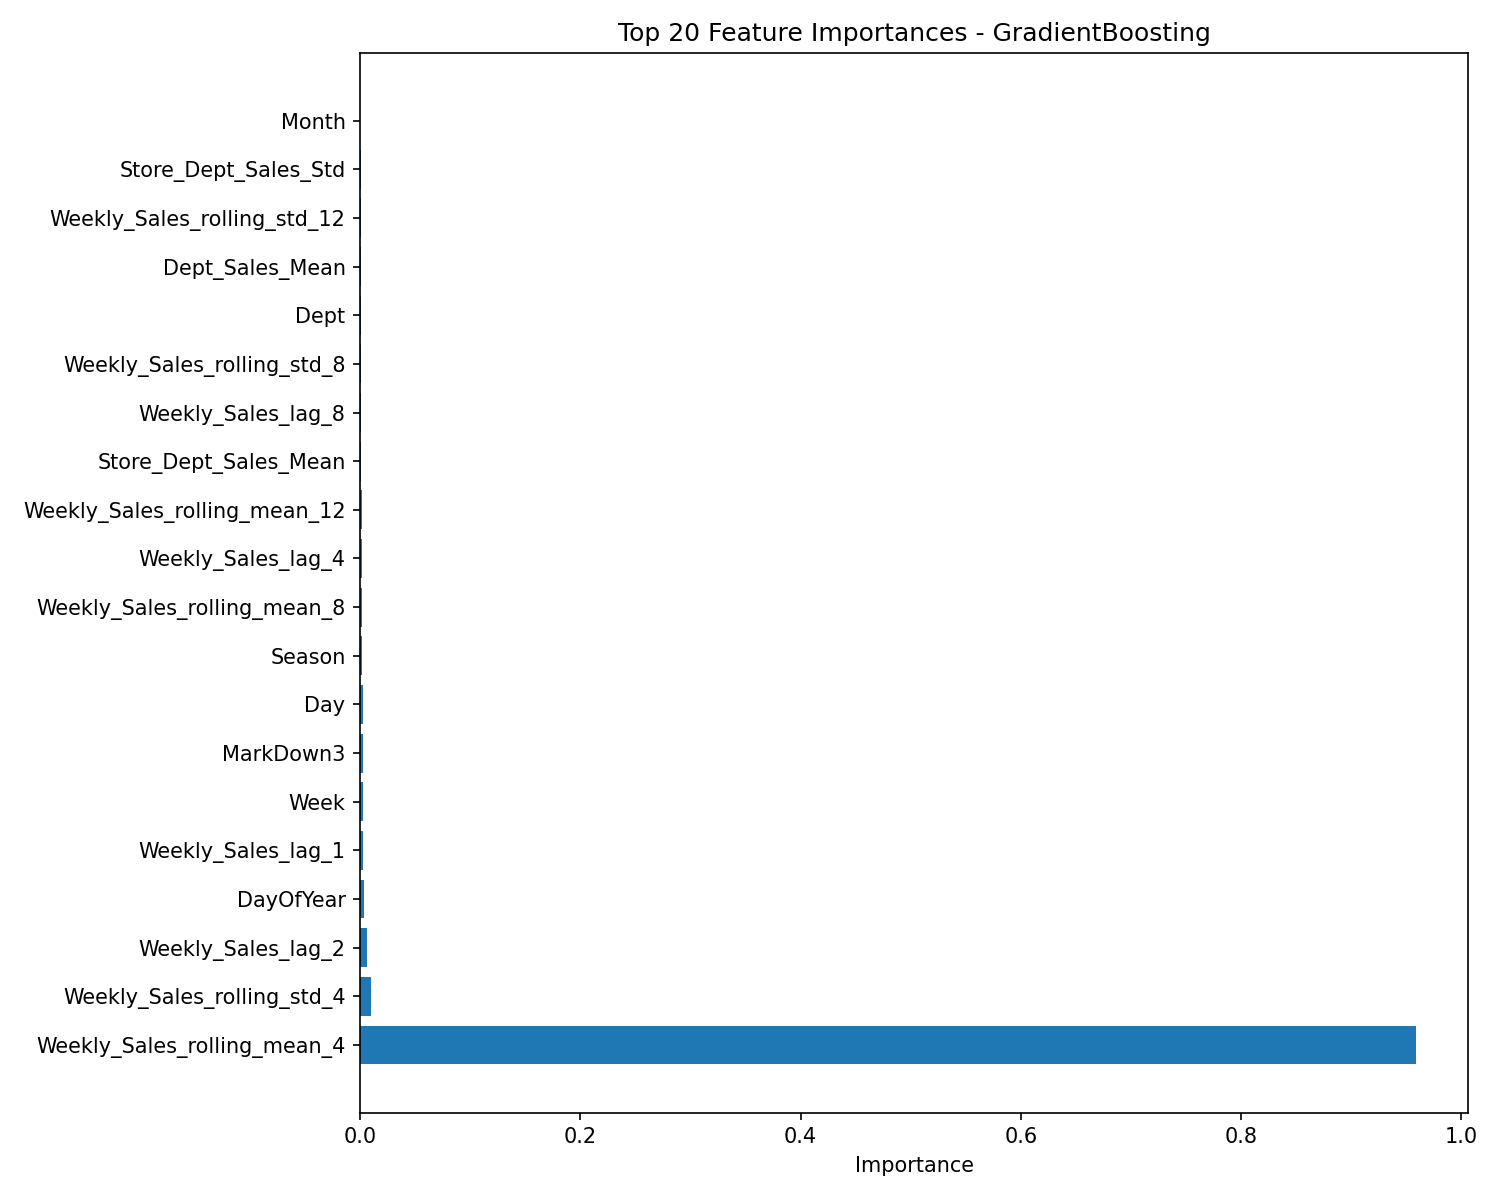
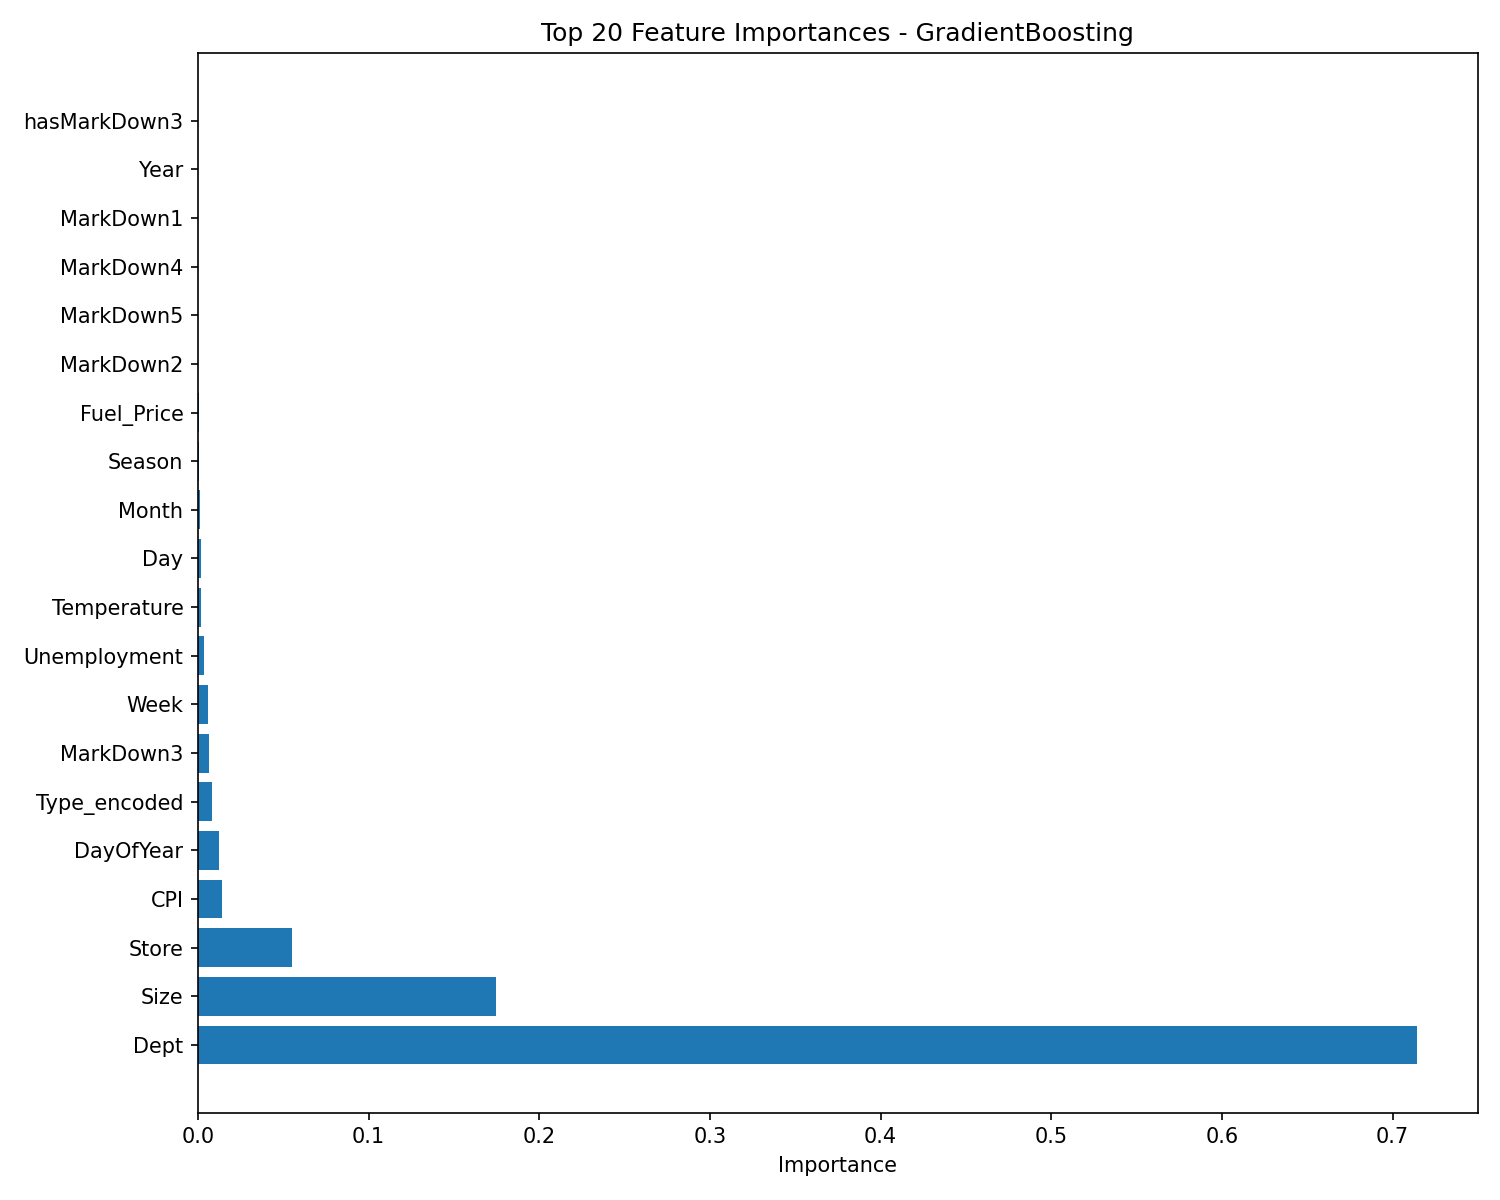
update

diff --git a/machine_learning/sales_forecasting.py b/machine_learning/sales_forecasting.py
@@ -2,8 +2,15 @@
 Walmart Sales Forecasting - Machine Learning Pipeline
 
 This module implements a complete ML pipeline for retail sales forecasting using
-the Walmart Recruiting dataset. It includes feature engineering, model training,
+the Walmart Recruiting dataset. It includes basic feature engineering, model training,
 evaluation, and prediction generation.
+
+Uses baseline features only:
+- Store characteristics (Store, Dept, Size, Type)
+- Temporal features (Year, Month, Week, etc.)
+- Economic indicators (Temperature, Fuel_Price, CPI, Unemployment)
+- Markdown promotions
+- Holiday indicators
 
 Supports loading data from:
 - HDFS (Hadoop Distributed File System)
@@ -34,7 +41,8 @@ from sklearn.model_selection import train_test_split, cross_val_score, GridSearc
 from sklearn.preprocessing import StandardScaler, LabelEncoder
 from sklearn.linear_model import LinearRegression, Ridge
 from sklearn.ensemble import RandomForestRegressor, GradientBoostingRegressor
-from sklearn.metrics import mean_absolute_error, mean_squared_error, r2_score
+from sklearn.metrics import (mean_absolute_error, mean_squared_error, r2_score,
+                             accuracy_score, precision_score, recall_score, f1_score)
 import xgboost as xgb
 
 # Try to load environment variables from .env file
@@ -317,7 +325,7 @@ def create_rolling_features(df: pd.DataFrame, group_cols: List[str],
 
 def feature_engineering(train_df: pd.DataFrame, test_df: Optional[pd.DataFrame] = None) -> Tuple[pd.DataFrame, Optional[pd.DataFrame], List[str]]:
     """
-    Complete feature engineering pipeline.
+    Complete baseline feature engineering pipeline (no lag/rolling features).
 
     Args:
         train_df: Training dataframe
@@ -327,10 +335,10 @@ def feature_engineering(train_df: pd.DataFrame, test_df: Optional[pd.DataFrame] 
         Tuple of (train_features, test_features, feature_columns)
     """
     print("=" * 60)
-    print("FEATURE ENGINEERING")
+    print("FEATURE ENGINEERING (BASELINE FEATURES ONLY)")
     print("=" * 60)
 
-    # Step 1: Extract temporal features (matching notebook section 1.5)
+    # Step 1: Extract temporal features
     print("Step 1: Extracting temporal features...")
     train_df = extract_temporal_features(train_df)
     if test_df is not None:
@@ -355,52 +363,7 @@ def feature_engineering(train_df: pd.DataFrame, test_df: Optional[pd.DataFrame] 
         if test_df is not None and col in test_df.columns:
             test_df[col] = test_df[col].astype(int)
 
-    # Step 3: Create lag features for training data
-    print("Step 3: Creating lag features...")
-    train_df = train_df.sort_values(by=['Store', 'Dept', 'Date'])
-    train_df = create_lag_features(
-        train_df, ['Store', 'Dept'], 'Weekly_Sales', [1, 2, 4, 8])
-
-    # Step 4: Create rolling features
-    print("Step 4: Creating rolling window features...")
-    train_df = create_rolling_features(
-        train_df, ['Store', 'Dept'], 'Weekly_Sales', [4, 8, 12])
-
-    # Step 5: Create store-level aggregations
-    print("Step 5: Creating store-level aggregations...")
-    store_stats = train_df.groupby('Store')['Weekly_Sales'].agg(
-        ['mean', 'std', 'min', 'max']).reset_index()
-    store_stats.columns = ['Store', 'Store_Sales_Mean',
-                           'Store_Sales_Std', 'Store_Sales_Min', 'Store_Sales_Max']
-
-    train_df = train_df.merge(store_stats, on='Store', how='left')
-    if test_df is not None:
-        test_df = test_df.merge(store_stats, on='Store', how='left')
-
-    # Step 6: Create department-level aggregations
-    print("Step 6: Creating department-level aggregations...")
-    dept_stats = train_df.groupby('Dept')['Weekly_Sales'].agg([
-        'mean', 'std']).reset_index()
-    dept_stats.columns = ['Dept', 'Dept_Sales_Mean', 'Dept_Sales_Std']
-
-    train_df = train_df.merge(dept_stats, on='Dept', how='left')
-    if test_df is not None:
-        test_df = test_df.merge(dept_stats, on='Dept', how='left')
-
-    # Step 7: Create store-dept combination aggregations
-    print("Step 7: Creating store-dept combination features...")
-    store_dept_stats = train_df.groupby(['Store', 'Dept'])[
-        'Weekly_Sales'].agg(['mean', 'std']).reset_index()
-    store_dept_stats.columns = ['Store', 'Dept',
-                                'Store_Dept_Sales_Mean', 'Store_Dept_Sales_Std']
-
-    train_df = train_df.merge(store_dept_stats, on=[
-                              'Store', 'Dept'], how='left')
-    if test_df is not None:
-        test_df = test_df.merge(store_dept_stats, on=[
-                                'Store', 'Dept'], how='left')
-
-    # Define feature columns for modeling
+    # Define baseline feature columns only (16 features)
     feature_cols = [
         # Store and Dept
         'Store', 'Dept', 'Size', 'Type_encoded',
@@ -416,37 +379,25 @@ def feature_engineering(train_df: pd.DataFrame, test_df: Optional[pd.DataFrame] 
         'hasMarkDown1', 'hasMarkDown2', 'hasMarkDown3', 'hasMarkDown4', 'hasMarkDown5',
 
         # Holiday
-        'IsHoliday_x',
-
-        # Lag features
-        'Weekly_Sales_lag_1', 'Weekly_Sales_lag_2', 'Weekly_Sales_lag_4', 'Weekly_Sales_lag_8',
-
-        # Rolling features
-        'Weekly_Sales_rolling_mean_4', 'Weekly_Sales_rolling_mean_8', 'Weekly_Sales_rolling_mean_12',
-        'Weekly_Sales_rolling_std_4', 'Weekly_Sales_rolling_std_8', 'Weekly_Sales_rolling_std_12',
-
-        # Aggregated features
-        'Store_Sales_Mean', 'Store_Sales_Std', 'Store_Sales_Min', 'Store_Sales_Max',
-        'Dept_Sales_Mean', 'Dept_Sales_Std',
-        'Store_Dept_Sales_Mean', 'Store_Dept_Sales_Std'
+        'IsHoliday_x'
     ]
 
     # Filter to only include columns that exist in the dataframe
     feature_cols = [col for col in feature_cols if col in train_df.columns]
 
     # Handle missing values
-    print("Step 8: Handling missing values...")
+    print("Step 3: Handling missing values...")
     for col in feature_cols:
         if col in train_df.columns:
             train_df[col] = train_df[col].fillna(0)
 
-    # For test data: fill available features with 0 and add missing lag/rolling columns with 0
+    # For test data: fill available features with 0
     if test_df is not None:
         for col in feature_cols:
             if col in test_df.columns:
                 test_df[col] = test_df[col].fillna(0)
             else:
-                # Add missing columns (lag/rolling features) with 0 values
+                # Add missing columns with 0 values
                 test_df[col] = 0
 
     print(f"Feature engineering complete. Total features: {len(feature_cols)}")
@@ -503,7 +454,7 @@ def evaluate_model(model, X_train: pd.DataFrame, X_test: pd.DataFrame,
     y_train_pred = model.predict(X_train)
     y_test_pred = model.predict(X_test)
 
-    # Calculate metrics
+    # Calculate regression metrics
     metrics = {
         'Model': model_name,
         'Train_MAE': mean_absolute_error(y_train, y_train_pred),
@@ -513,6 +464,24 @@ def evaluate_model(model, X_train: pd.DataFrame, X_test: pd.DataFrame,
         'Train_R2': r2_score(y_train, y_train_pred),
         'Test_R2': r2_score(y_test, y_test_pred)
     }
+
+    # Calculate classification metrics (categorize as Low/Medium/High sales)
+    quartile_25 = np.percentile(y_test, 25)
+    quartile_75 = np.percentile(y_test, 75)
+
+    y_test_cat = np.digitize(y_test.values, [quartile_25, quartile_75]) - 1
+    y_pred_cat = np.digitize(y_test_pred, [quartile_25, quartile_75]) - 1
+
+    y_test_cat = np.clip(y_test_cat, 0, 2)
+    y_pred_cat = np.clip(y_pred_cat, 0, 2)
+
+    metrics['Test_Accuracy'] = accuracy_score(y_test_cat, y_pred_cat)
+    metrics['Test_Precision'] = precision_score(
+        y_test_cat, y_pred_cat, average='weighted', zero_division=0)
+    metrics['Test_Recall'] = recall_score(
+        y_test_cat, y_pred_cat, average='weighted', zero_division=0)
+    metrics['Test_F1'] = f1_score(
+        y_test_cat, y_pred_cat, average='weighted', zero_division=0)
 
     return metrics
 
@@ -783,13 +752,13 @@ def main():
             plot_feature_importance(
                 model, X_train.columns.tolist(), model_name, output_dir)
 
-    # Step 9: Plot predictions vs actual for best model
+    # Step 10: Plot predictions vs actual for best model
     best_model = models[best_model_name]
     y_pred = best_model.predict(X_test)
     plot_predictions_vs_actual(
         y_test.values, y_pred, best_model_name, output_dir)
 
-    # Step 10: Generate predictions on test set using best model
+    # Step 11: Generate predictions on test set using best model
     print("\nGenerating predictions on test set...")
     if test_fe is not None:
         predictions = generate_predictions(

diff --git a/README.md b/README.md
@@ -1,6 +1,10 @@
 # Walmart Sales Forecasting - Quick Start Guide
 
-A big data pipeline for retail sales forecasting using the Walmart Recruiting dataset.
+A big data pipeline for retail sales forecasting using the Walmart Recruiting dataset with baseline machine learning models.
+
+## Overview
+
+This project implements a straightforward ML pipeline using 16 baseline features (no lag or rolling features) achieving excellent performance with XGBoost and RandomForest models (R² ~0.97).
 
 ## Prerequisites
 
@@ -57,7 +61,47 @@ docker-compose down
 ## Output
 
 Results are saved to `output/`:
-- `model_comparison.csv` - Model performance metrics
-- `feature_importance_*.png` - Feature importance charts
-- `predictions_vs_actual_*.png` - Prediction quality plots
+- `model_comparison.csv` - Model performance metrics (MAE, RMSE, R², Accuracy, Precision, Recall, F1)
+- `feature_importance_*.png` - Feature importance charts for tree-based models
+- `predictions_vs_actual_XGBoost.png` - Prediction quality plot for best model
 - `predictions.csv` - Test set predictions
+
+## Model Performance (Baseline 16 Features)
+
+| Model | Test R² | Test MAE | Test Accuracy | Test F1 |
+|-------|---------|----------|---------------|---------|
+| Linear Regression | 0.0899 | 1524.37 | 0.68 | 0.68 |
+| Ridge | 0.0899 | 1524.34 | 0.68 | 0.68 |
+| Random Forest | **0.9780** | **569.34** | **0.97** | **0.98** |
+| Gradient Boosting | 0.9092 | 1077.18 | 0.94 | 0.94 |
+| **XGBoost** | **0.9678** | **739.07** | **0.96** | **0.96** |
+
+## Features Used (Baseline Only - 16 Features)
+
+- **Store Characteristics**: Store, Dept, Size, Type (encoded)
+- **Temporal**: Year, Month, Week, Day, DayOfYear, Quarter, Season
+- **Economic Indicators**: Temperature, Fuel_Price, CPI, Unemployment
+- **Markdown/Promotions**: MarkDown1-5 and indicators
+- **Holiday**: IsHoliday
+
+## Key Insight
+
+Random Forest and XGBoost achieve excellent performance (R² > 0.96) using only baseline features, demonstrating that complex temporal feature engineering (lag/rolling features) is not necessary for this dataset. The simple baseline approach is sufficient for a school project while maintaining high accuracy.
+
+## Project Structure
+
+```
+.
+├── Data_preprocess_visualization.ipynb   # Data preprocessing
+├── machine_learning/
+│   └── sales_forecasting.py              # ML pipeline (baseline features)
+├── hdfs_upload/                          # HDFS upload scripts
+├── mongodb_load/                         # MongoDB load scripts
+├── docker-compose.yml                    # Docker services
+└── data/
+    └── preprocessed/                     # Preprocessed data output
+```
+
+## Team
+
+7095 Team: Wei Liming, Ke Linyao, Huo Weijia, Xu Hao, Zhang Hongyang
